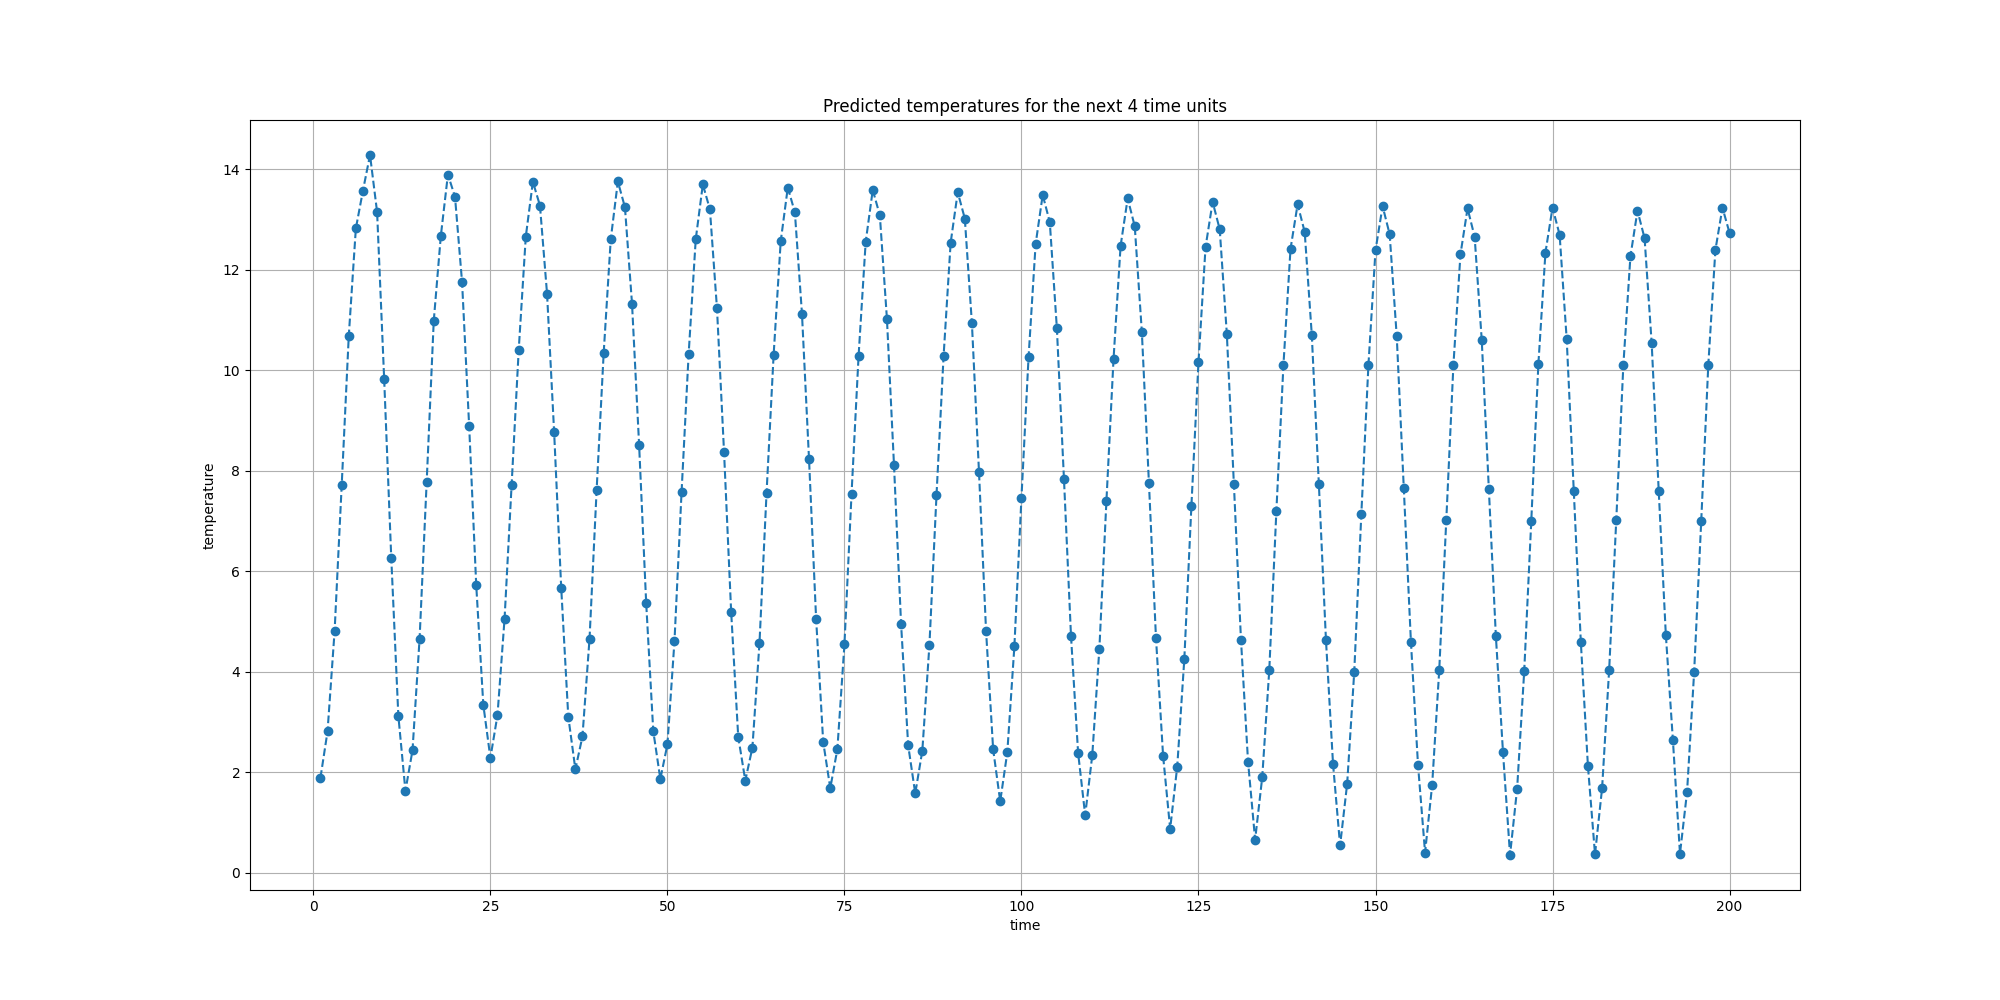
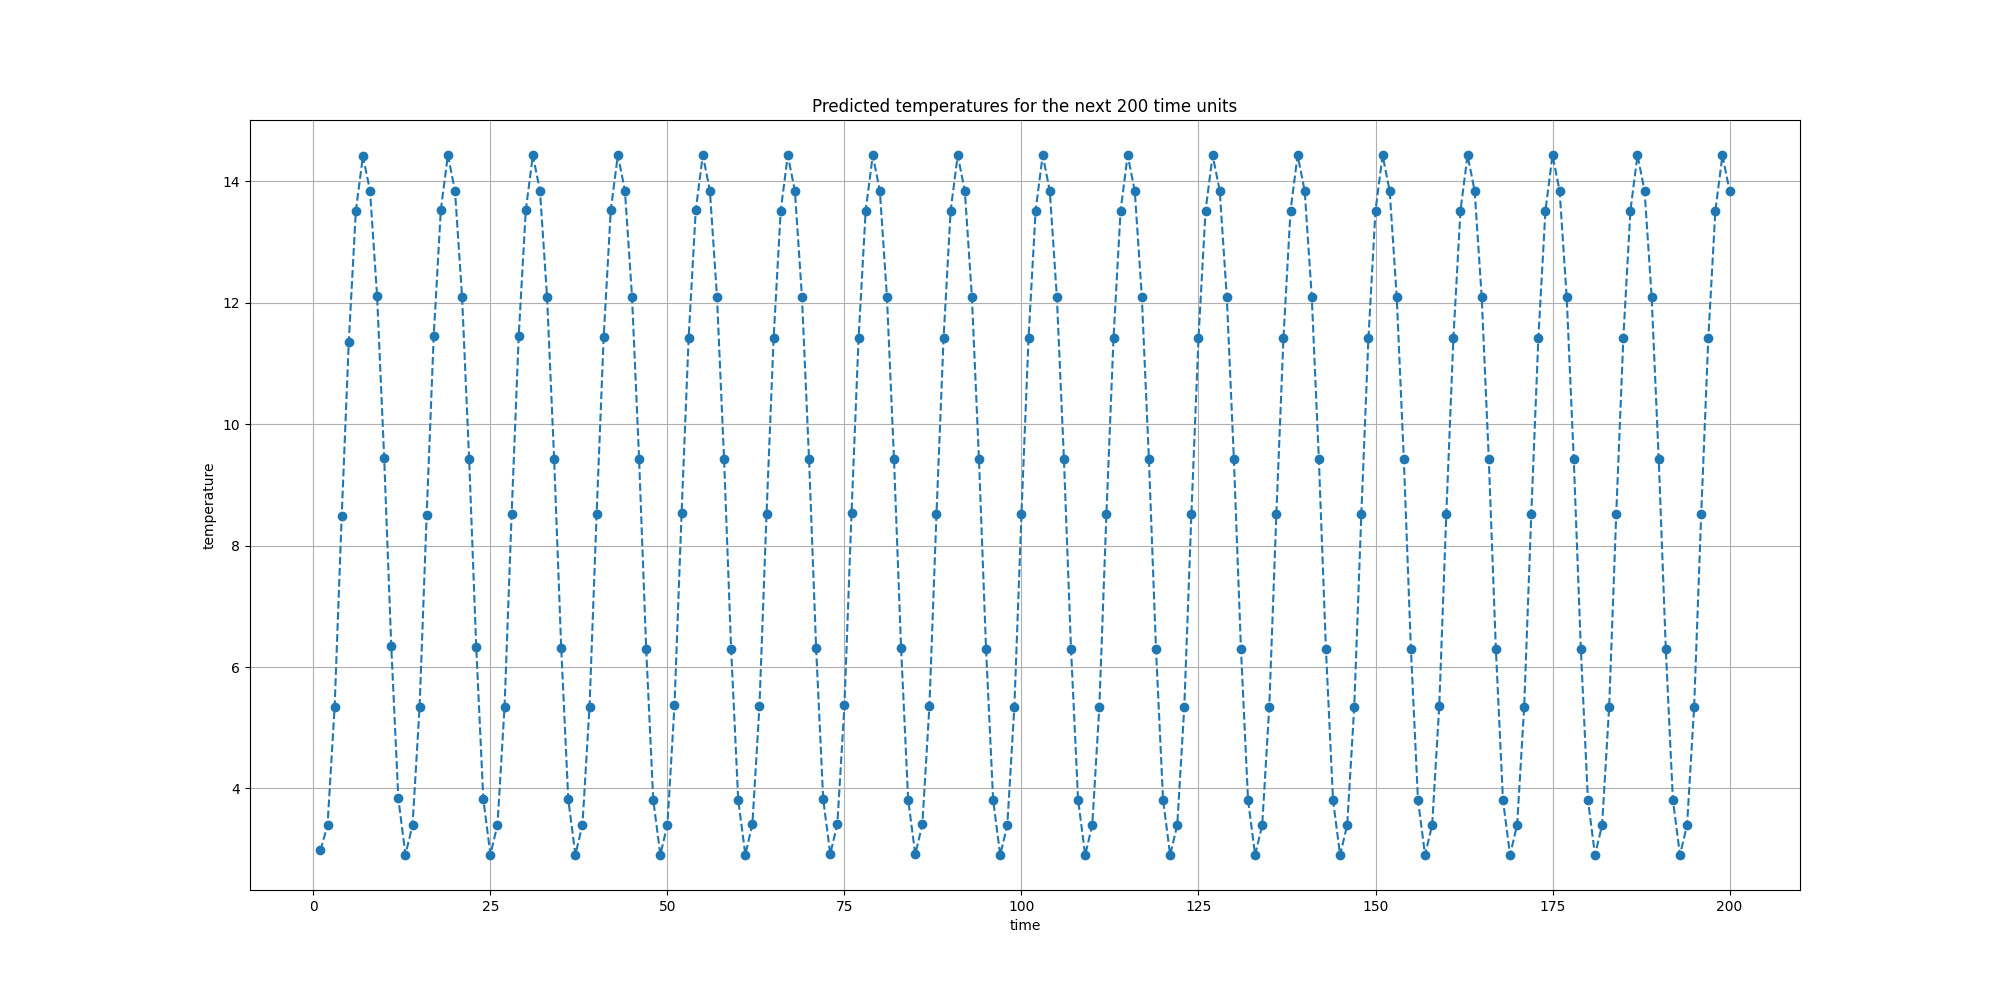
add requirements

diff --git a/model_apply.py b/model_apply.py
@@ -119,11 +119,11 @@ lg.info(f"End of running process within {round(time.time()-start,2)} seconds.")
 
 # plotting the results
 lg.info("Exporting the output...")
-
+nbtime = args["extended"]
 plt.figure(figsize=(20, 10))
 plt.grid()
 plt.plot(range(1, len(res) + 1), res, "o--")
-plt.title(f"Predicted temperatures for the next {config.N_FUTUR} time units")
+plt.title(f"Predicted temperatures for the next {nbtime} time units")
 plt.xlabel("time")
 plt.ylabel("temperature")
 plt.savefig(args["plot"] + "/predictions.png")

diff --git a/README.md b/README.md
@@ -2,9 +2,7 @@
 
 This program forecasts temperatures for a given period of time, based on data over a given period of time.
 
-![Output Example](https://raw.githubusercontent.com/artperrin/simple-temperature-forecasting/master/readme_figures/example.png)
-
-This repository contains :
+This repository contains:
 * the model_training.py script to train one's own model,
 * the model_apply.py script to use a .h5 model,
 * a config.py file to set parameters for model training,
